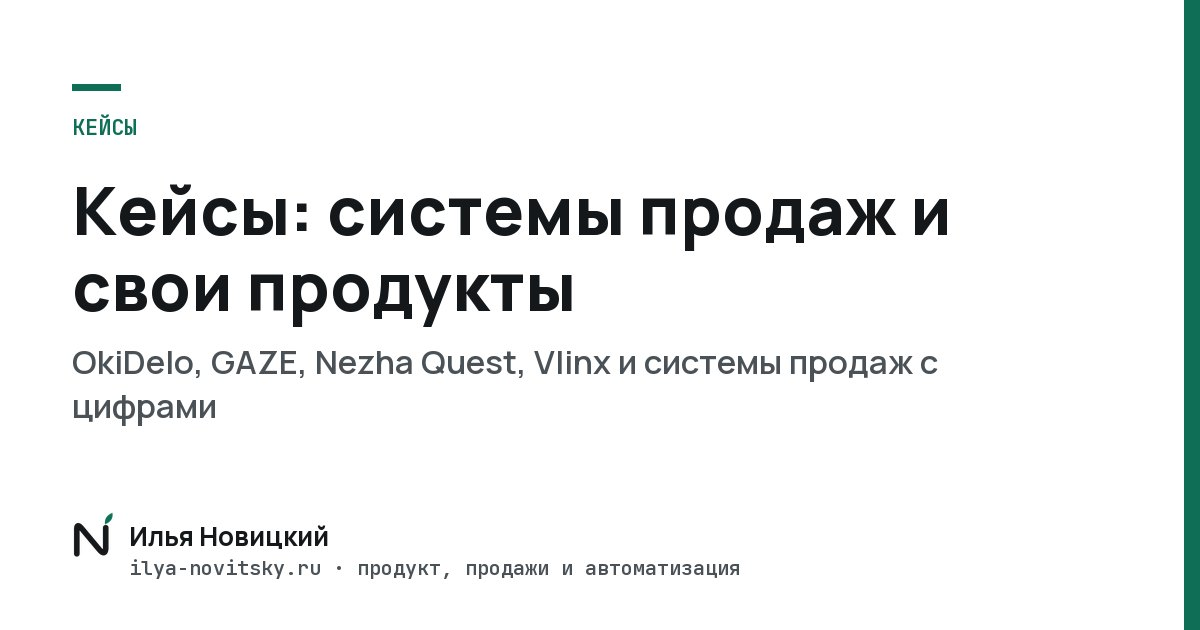
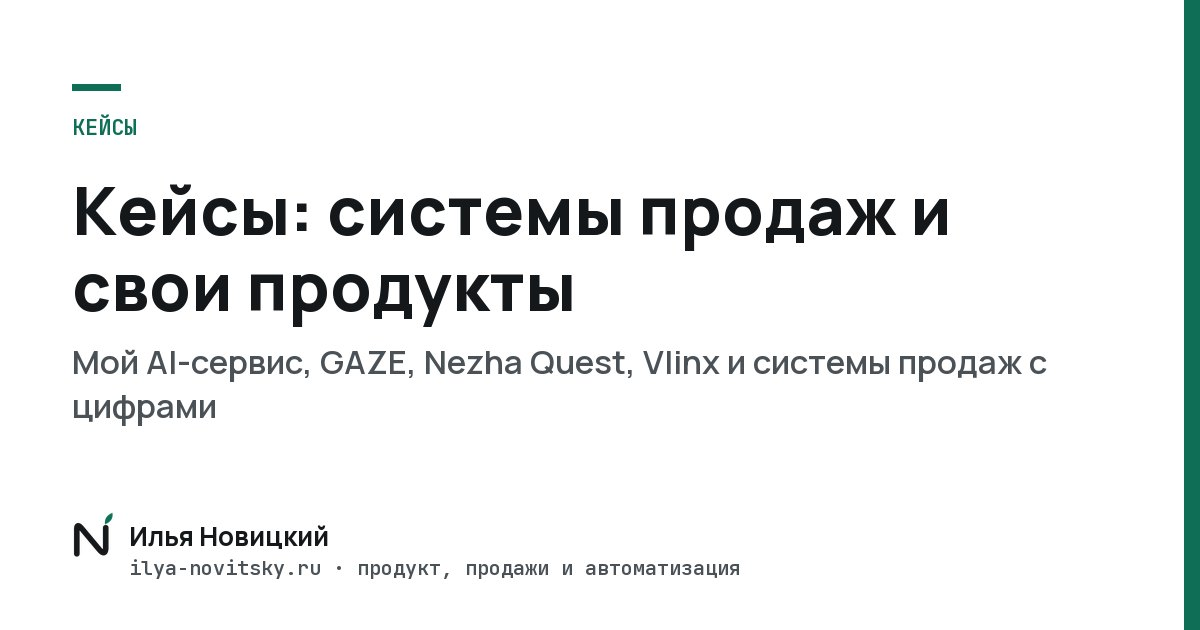
Кейсы по формуле v6, «мой AI-сервис» вместо названия (#119)
* Кейсы по формуле v6: без «цифры условные», что значит для вас у Nezha, связь в рабочие дни; ведение: от вас решения и идеи

* Кейсы: «мой AI-сервис» вместо названия OkiDelo до проверки имени (логотип остаётся), превью кейсов обновлено

---------

Changed region(s): [[0.0617, 0.5429, 0.8633, 0.6032]]

diff --git a/content/pages/keisy.ts b/content/pages/keisy.ts
@@ -60,7 +60,7 @@ export const keisy = typo({
 		fan: [
 			{ cls: "f1", src: "/images/site/shot-gaze-phone.png", alt: "GAZE на телефоне" },
 			{ cls: "f3", src: "/images/site/shot-nezha-phone.png", alt: "Nezha Quest на телефоне" },
-			{ cls: "f2", src: "/images/site/shot-okidelo-phone.png", alt: "OkiDelo на телефоне" },
+			{ cls: "f2", src: "/images/site/shot-okidelo-phone.png", alt: "Мой AI-сервис на телефоне" },
 		],
 		forYou: "Что это значит для вас.",
 	},
@@ -73,7 +73,7 @@ export const keisy = typo({
 		cards: [
 			{ title: "Под каждую задачу свой инструмент", text: "Исследование, тексты, прототип и код делают разные AI-инструменты, а решаю, что строить, я. Так собраны Vlinx за 2 дня и основа GAZE за 2 недели." },
 			{ title: "Ошибки ищу до того, как работа дойдёт до вас", text: "У проекта свои правила и эталон стиля. Ничего не считается готовым без проверки по списку, перед каждой правкой сохраняется копия." },
-			{ title: "Рутина идёт сама, даже ночью", text: "Проверки, отчёты и резервные копии запускаются по расписанию, AI-помощники отвечают и напоминают круглосуточно." },
+			{ title: "Рутина идёт сама, даже ночью", text: "Проверки, отчёты и резервные копии запускаются по расписанию, AI-помощники отвечают клиентам и напоминают круглосуточно. Сам я на связи в рабочие дни." },
 			{ title: "Вы видите каждый шаг", text: "Исследование, решения и план лежат в одном документе. Вы утверждаете шаг, и только после этого работа идёт дальше." },
 		],
 		hood: {
@@ -106,7 +106,7 @@ export const keisy = typo({
 			window: "документ проекта · дерево сайта до каждого файла",
 			shot: { src: "/images/site/shot-tree.jpg", alt: "Фрагмент рабочего документа: дерево проекта, у каждого файла своя функция и статус" },
 			cap: "Так выглядит документ проекта: этот сайт разложен до каждого файла, прежде чем писать код.",
-			okidelo: { title: "Эта система стала основой OkiDelo", text: "Ту же логику, команду AI-помощников с ролями и проверкой каждого шага, упаковываю в продукт для малого бизнеса. Метод проверен на своих проектах, теперь из него растёт продукт." },
+			okidelo: { title: "Эта система стала основой моего AI-сервиса", text: "Ту же логику, команду AI-помощников с ролями и проверкой каждого шага, упаковываю в продукт для малого бизнеса. Метод проверен на своих проектах, теперь из него растёт продукт." },
 		},
 	},
 

diff --git a/content/pages/kak-my-rabotaem.ts b/content/pages/kak-my-rabotaem.ts
@@ -46,7 +46,7 @@ const steps: ({ id: string; title: string; meta: string; lead: string; price: st
 		lead: "Спроектированное запускается и развивается дальше: продукт, система продаж, автоматизация. Строю сам, поэтому между идеей и результатом нет цепочки исполнителей.",
 		gets: { label: "Что получаете", items: ["запуск того, что спроектировали: продукт, сайт, путь клиента до оплаты, CRM и автоматизация;", "доработки и новые функции по мере роста;", "итоги месяца в цифрах и цели на следующий."], example: "[Как ведение выглядит на примере →](/primer-chertezha#vedenie)" },
 		how: { label: "Границы роли", steps: [{ b: "Работаем как партнёры, инициатива с моей стороны.", t: "Цели на месяц ставим вместе. Я сам предлагаю следующие шаги, а ваши идеи и задачи с радостью обсуждаем и штурмим вместе." }, { b: "Один плановый созвон в неделю.", t: "Остальное в переписке, связь в рабочие дни." }, { b: "Объём роли записан в договоре.", t: "Нужно больше, расширяем роль, а не считаем часы." }, { b: "Беру одного клиента на ведение.", t: "Другую часть недели занимают свои продукты." }] },
-		need: "короткие «да» или «поправь», доступы и ваше участие там, где нужна экспертиза о продукте.",
+		need: "решения по ключевым вопросам, доступы и ваша экспертиза о продукте. Идеи и задачи приносите в любой момент.",
 		fitTitle: "Подойдёт, если",
 		fit: ["есть чертёж или готовый план, и пора его внедрять;", "система уже работает, а развивать её некому;", "нужен человек, который и продукт развивает, и систему продаж строит, а нанимать двоих в штат рано."],
 		notTitle: "Чего не будет",

diff --git a/src/lib/seo.ts b/src/lib/seo.ts
@@ -23,7 +23,7 @@ export function pageMeta(raw: PageMeta, path: string, og: string, opts: { absolu
 		alternates: { canonical: path },
 		openGraph: {
 			type: opts.type || "website", locale: "ru_RU", siteName: site.name, url: path, title: ogTitle, description: m.description,
-			images: [{ url: `/og/${og}.jpg?v=2026101601`, width: 1200, height: 630, alt: ogTitle }],
+			images: [{ url: `/og/${og}.jpg?v=2026101602`, width: 1200, height: 630, alt: ogTitle }],
 			...(opts.modified ? { modifiedTime: opts.modified } : {}),
 		},
 		twitter: { card: "summary_large_image" },

diff --git a/content/cases/okidelo.md b/content/cases/okidelo.md
@@ -1,16 +1,16 @@
 ---
 order: "1"
-title: "OkiDelo: рабочее пространство с AI-отделом для бизнеса"
+title: "Мой AI-сервис: рабочее пространство с AI-отделом для бизнеса"
 headline: "Работа команды не должна зависеть от одной нейросети"
-tag: "Мой продукт, в разработке"
+tag: "в разработке"
 logo: "/images/site/okidelo-logo-h.svg"
 view: "oki"
 image: "/images/site/shot-okidelo-phone.png"
-imageAlt: "OkiDelo на телефоне: рабочее пространство с AI-отделом"
+imageAlt: "Мой AI-сервис на телефоне: рабочее пространство с AI-отделом"
 imageSize: "800x1159"
 forYou: "Если команда работает с нейросетями, ту же схему можно собрать у вас: общее пространство, роли и смена модели без потерь."
 metric: "43 блока | в чертеже проекта до начала разработки"
 metric: "11 экранов | кликабельного прототипа"
 ---
 
-Нейросети меняются каждые полгода: одна дорожает, другая уходит, третья становится лучше. OkiDelo собирает работу команды в одно рабочее пространство, где нейросеть меняется, а контекст остаётся.
+Нейросети меняются каждые полгода: одна дорожает, другая уходит, третья становится лучше. Сервис собирает работу команды в одно рабочее пространство, где нейросеть меняется, а контекст остаётся.

diff --git a/content/cases/nezha-quest.md b/content/cases/nezha-quest.md
@@ -7,6 +7,7 @@ view: "nezha"
 image: "/images/site/shot-nezha-phone.png"
 imageAlt: "Nezha Quest на телефоне: уровень, здоровье, опыт и кристаллы"
 imageSize: "800x1159"
+forYou: "Правила, заданные один раз, срабатывают сами, без контроля вручную. Так же можно устроить бонусы и программу лояльности для ваших клиентов."
 ---
 
 Обычные дела ребёнка превращаются в квесты: за старание он получает опыт и награды, за нарушения срабатывают заранее оговорённые последствия. Спорить не с кем, стоять над душой не нужно.

diff --git a/content/cases/gaze.md b/content/cases/gaze.md
@@ -7,7 +7,7 @@ view: "gaze"
 image: "/images/site/shot-gaze-analytics-phone.png"
 imageAlt: "GAZE на телефоне: аналитика мастера в рублях"
 imageSize: "800x1159"
-caption: "экран аналитики в демо-режиме, цифры условные"
+caption: "экран аналитики в демо-режиме"
 forYou: "Если у вас покупают повторно, та же механика возврата клиентов встраивается в ваш бизнес: салон, клинику, школу или сервис."
 metric: "2 недели | на основу, в одиночку"
 metric: "+10 | клиенток вернулись к мастеру"
